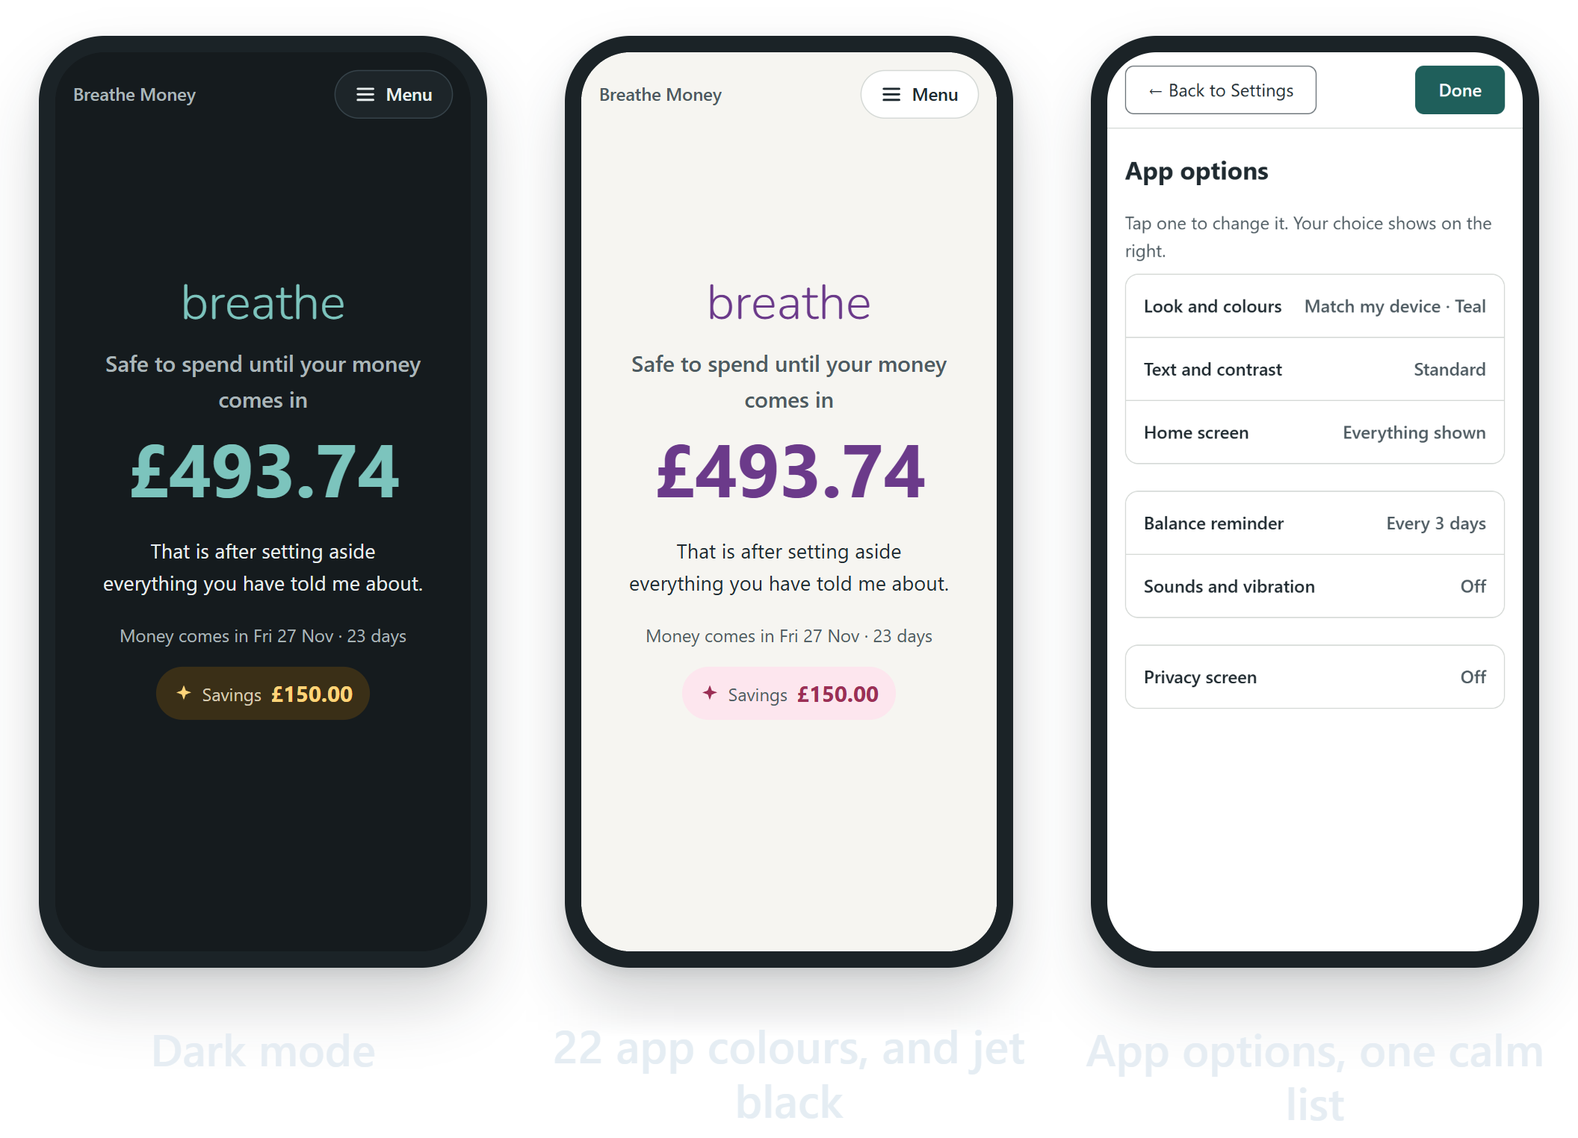
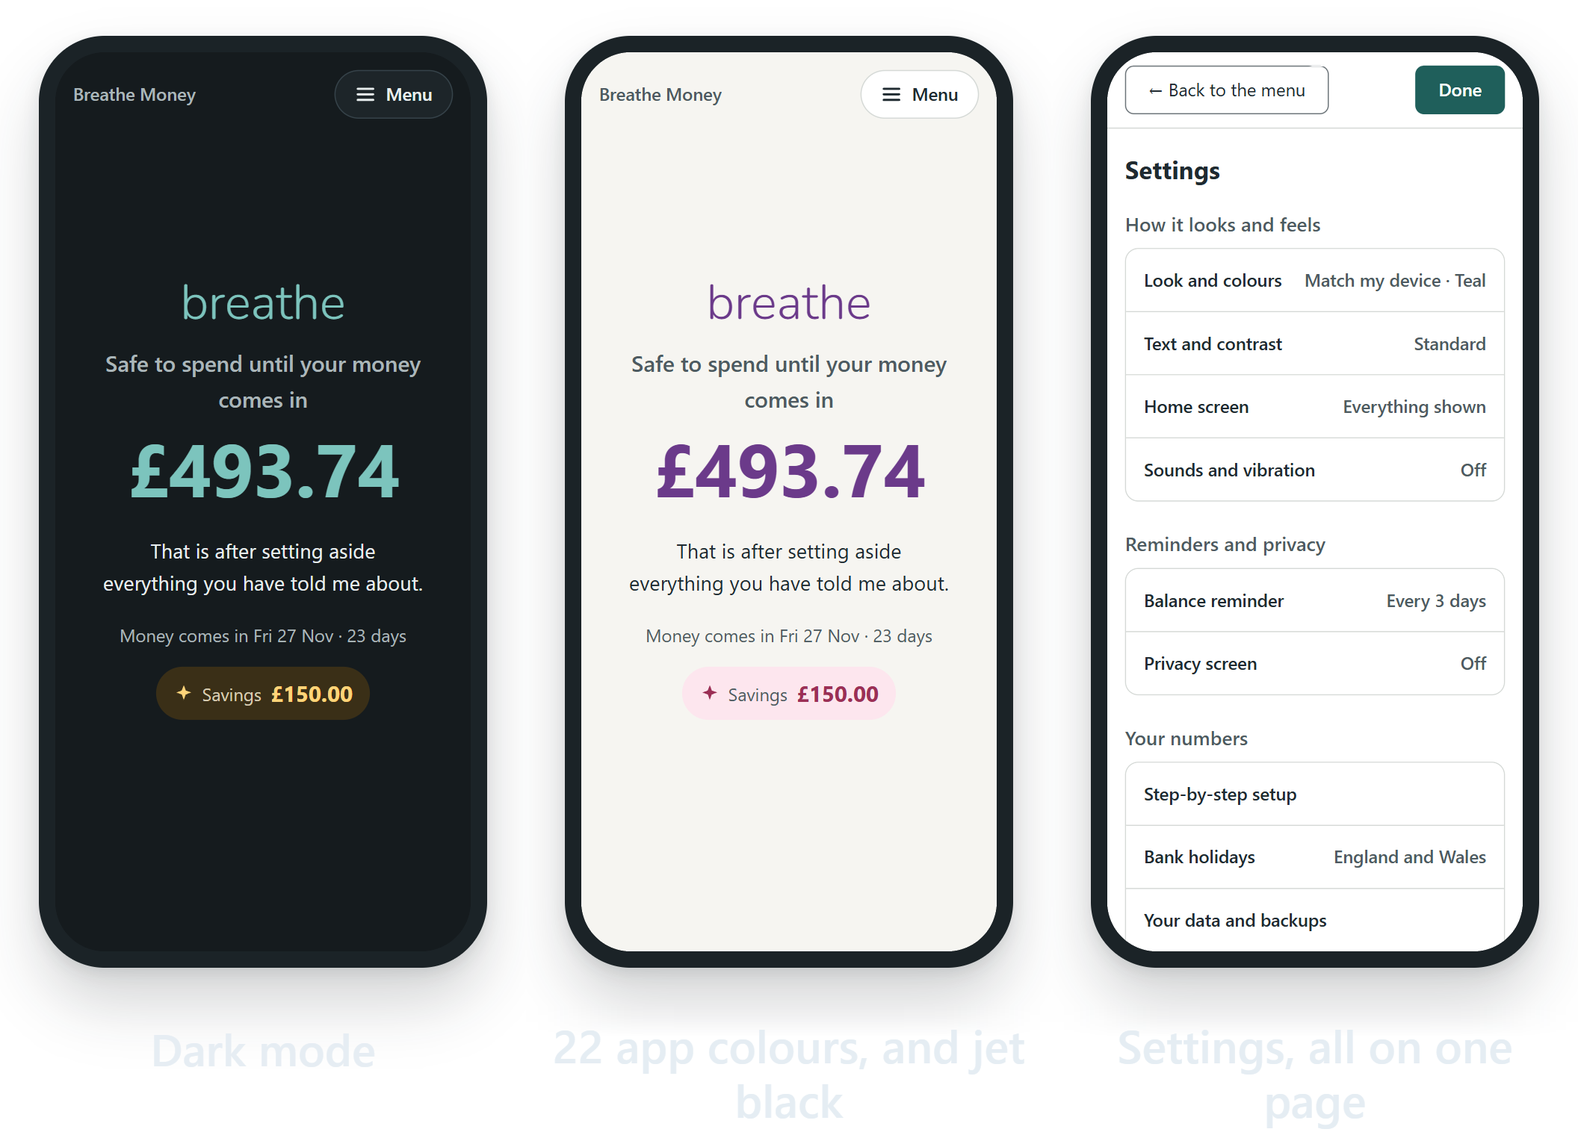
Simpler: one Settings page, shorter titles, calmer pages
- Settings is one page in three groups (no separate App options page);
  option pages go back to Settings.
- Your account is just the question and the box (typing means now).
- Bills title and hint shortened; Money coming in hint shortened; bill
  total without 'in total'.
- Plan until and the weekend question sit behind More options on the
  Money coming in page (setup unchanged).
- Savings: total, then Add / Take out; the note and Type a new total
  underneath; Undo only after a change.
README, ACCESSIBILITY, ANDROID-APP wording; Bills, Settings and clip
pictures retaken (caption: Settings, all on one page). Notes for v0.31.0.

diff --git a/apps/money/src/screens/MenuSheet.tsx b/apps/money/src/screens/MenuSheet.tsx
@@ -69,7 +69,8 @@ const TITLES: Record<PanelId, string> = {
 function parentOf(panel: PanelId): PanelId {
   if (panel === "setup" || panel === "settings" || panel === "data" || panel === "help" || panel === "holidays") return "more";
   if (panel === "share" || panel === "tip" || panel === "report" || panel === "about") return "help";
-  if (panel.startsWith("opt-")) return "settings";
+  // v0.31.0: the option pages open straight from Settings (no separate App options page).
+  if (panel.startsWith("opt-")) return "more";
   return "menu";
 }
 const BACK_LABEL: Partial<Record<PanelId, string>> = {
@@ -156,7 +157,6 @@ export function MenuSheet({ panel, onPanel, form, today, built, outcome, api, da
             {panel === "payday" || panel === "income" ? (
               <>
                 <IncomeSection form={form} today={today} api={api} />
-                <h3 className="sub-question">{ui.planUntilTitle}</h3>
                 <PlanUntilSection form={form} today={today} api={api} />
               </>
             ) : null}
@@ -176,7 +176,7 @@ export function MenuSheet({ panel, onPanel, form, today, built, outcome, api, da
               <SetupView form={form} today={today} built={built} api={api} onClose={() => onPanel(null)} />
             ) : null}
             {panel === "coming-up" ? <ComingUpView built={built} outcome={outcome} settings={settings} /> : null}
-            {panel === "more" ? <MoreList onPanel={onPanel} holidays={describeForm(form, today).holidays} /> : null}
+            {panel === "more" ? <MoreList onPanel={onPanel} holidays={describeForm(form, today).holidays} settings={settings} /> : null}
             {panel === "settings" ? <OptionsList settings={settings} onPanel={onPanel} /> : null}
             {groupOf(panel) !== null ? <SettingsView settings={settings} group={groupOf(panel)!} /> : null}
             {panel === "help" ? <HelpList onPanel={onPanel} /> : null}
@@ -278,37 +278,54 @@ function MenuList({ form, today, built, outcome, onPanel }: MenuListProps) {
 }
 
 /** The Settings folder: the less-used pages, kept together so the menu stays short. */
-function MoreList({ onPanel, holidays }: { onPanel: (panel: PanelId) => void; holidays: string }) {
+function MoreList({ onPanel, holidays, settings }: { onPanel: (panel: PanelId) => void; holidays: string; settings: SettingsApi }) {
+  const s = settings.settings;
+  const t = words.settings;
+  const m = words.menu;
+  const shown = [s.showExplanation, s.showPayday, s.showSavings].filter(Boolean).length;
+  const sound = s.clickSound === "off" ? null : t.sounds[s.clickSound];
+  const buzz = s.vibration === "off" ? null : t.vibrations[s.vibration];
+  const now: Record<OptionGroup, string> = {
+    look: `${t.options[s.appearance]} · ${t.accents[s.accent]}`,
+    text: t.textSizes[s.textSize],
+    home: shown === 3 ? m.homeAll : shown === 0 ? m.homeNone : m.homeSome,
+    reminder: t.reminderOptions[s.balanceReminder],
+    sounds: sound === null && buzz === null ? m.off : [sound, buzz].filter(Boolean).join(" · "),
+    privacy: settings.lock.isOn ? m.on : m.off,
+    updates: settings.updates.installed ?? "",
+  };
+  const option = (g: OptionGroup) => (
+    <li key={g}>
+      <button type="button" className="menu-item" onClick={() => onPanel(`opt-${g}` as PanelId)}>
+        <span className="menu-title">{m.optionGroups[g]}</span>
+        <span className="menu-sub">{now[g]}</span>
+      </button>
+    </li>
+  );
+  const page = (id: PanelId, title: string, sub?: string) => (
+    <li key={id}>
+      <button type="button" className="menu-item" onClick={() => onPanel(id)}>
+        <span className="menu-title">{title}</span>
+        {sub === undefined ? null : <span className="menu-sub">{sub}</span>}
+      </button>
+    </li>
+  );
+  // v0.31.0: everything on one page, in three small groups (no separate App options page).
   return (
     <>
+      <h3 className="settings-heading">{m.settingsGroups.feel}</h3>
+      <ul className="menu-list">{(["look", "text", "home", "sounds"] as const).map(option)}</ul>
+      <h3 className="settings-heading">{m.settingsGroups.reminders}</h3>
       <ul className="menu-list">
-        <li>
-          <button type="button" className="menu-item" onClick={() => onPanel("setup")}>
-            <span className="menu-title">{words.setup.menuItem}</span>
-          </button>
-        </li>
-        <li>
-          <button type="button" className="menu-item" onClick={() => onPanel("settings")}>
-            <span className="menu-title">{words.menu.names.settings}</span>
-          </button>
-        </li>
-        <li>
-          <button type="button" className="menu-item" onClick={() => onPanel("holidays")}>
-            <span className="menu-title">{words.menu.names.holidays}</span>
-            <span className="menu-sub">{holidays}</span>
-          </button>
-        </li>
-        <li>
-          <button type="button" className="menu-item" onClick={() => onPanel("data")}>
-            <span className="menu-title">{words.menu.names.data}</span>
-          </button>
-        </li>
-        <li>
-          <button type="button" className="menu-item" onClick={() => onPanel("help")}>
-            <span className="menu-title">{words.menu.helpTitle}</span>
-          </button>
-        </li>
+        {(["reminder", "privacy", "updates"] as const).filter((g) => g !== "updates" || settings.updates.available).map(option)}
       </ul>
+      <h3 className="settings-heading">{m.settingsGroups.numbers}</h3>
+      <ul className="menu-list">
+        {page("setup", words.setup.menuItem)}
+        {page("holidays", m.names.holidays, holidays)}
+        {page("data", m.names.data)}
+      </ul>
+      <ul className="menu-list">{page("help", m.helpTitle)}</ul>
     </>
   );
 }

diff --git a/apps/money/src/screens/FormSections.tsx b/apps/money/src/screens/FormSections.tsx
@@ -34,41 +34,17 @@ interface PlanUntilProps extends SectionProps {
   compactRule?: boolean;
 }
 
-export function AccountSection({ form, today, api }: SectionProps) {
-  // Most people type their balance straight after checking it, so the date only shows when it matters.
-  const fromAnotherDay = form.balanceDate !== "" && form.balanceDate !== today;
-  const [pickingDate, setPickingDate] = useState(false);
-  const showDate = fromAnotherDay || pickingDate;
+export function AccountSection({ form, api }: SectionProps) {
+  // Typing a balance always means "this is what's in my account now" (it takes today's date),
+  // so there's no date to ask about (v0.31.0).
   return (
-    <>
-      <MoneyField
-        label={ui.balanceLabel}
-        hint={ui.balanceHint}
-        value={form.balance}
-        onChange={(value) => api.set("balance", value)}
-        allowNegative
-      />
-      {showDate ? (
-        <div className="field">
-          <label htmlFor="balance-date">{ui.balanceDateLabel}</label>
-          <p className="hint">{ui.balanceDateHint}</p>
-          <input
-            id="balance-date"
-            type="date"
-            max={today}
-            value={form.balanceDate || today}
-            onChange={(event) => api.set("balanceDate", event.target.value)}
-          />
-        </div>
-      ) : (
-        <p className="hint">
-          {ui.balanceCheckedToday}{" "}
-          <button type="button" className="link" onClick={() => setPickingDate(true)}>
-            {ui.balanceOtherDay}
-          </button>
-        </p>
-      )}
-    </>
+    <MoneyField
+      label={ui.balanceLabel}
+      hint={ui.balanceHint}
+      value={form.balance}
+      onChange={(value) => api.set("balance", value)}
+      allowNegative
+    />
   );
 }
 
@@ -126,6 +102,7 @@ function RepeatField({
 export function PlanUntilSection({ form, today, api, compactRule = false }: PlanUntilProps) {
   const question = paydayRuleQuestion(form, today);
   const [changing, setChanging] = useState(false);
+  const [showMore, setShowMore] = useState(false);
   const needsDefault = compactRule && question !== null && form.paydayRule === "";
   useEffect(() => {
     if (needsDefault) api.set("paydayRule", "working-day-before");
@@ -176,6 +153,17 @@ export function PlanUntilSection({ form, today, api, compactRule = false }: Plan
   }
 
   if (choices.length === 0) return <p className="hint">{ui.planUntilNothingYet}</p>;
+  // The automatic choice is right for almost everyone, so the choices wait behind "More options".
+  if (!showMore) {
+    return (
+      <>
+        {stop !== null ? <p className="hint">{ui.planUntilLine(nameOf(stop))}</p> : null}
+        <button type="button" className="link" onClick={() => setShowMore(true)}>
+          {ui.moreOptions}
+        </button>
+      </>
+    );
+  }
   return (
     <>
       <div className="field">
@@ -198,6 +186,9 @@ export function PlanUntilSection({ form, today, api, compactRule = false }: Plan
         </select>
       </div>
       {rule}
+      <button type="button" className="link" onClick={() => setShowMore(false)}>
+        {ui.fewerOptions}
+      </button>
     </>
   );
 }
@@ -385,7 +376,6 @@ export function PotSection({ form, api }: SectionProps) {
 
   return (
     <>
-      <p className="hint">{s.intro}</p>
       <div className="savings-card">
         <span className="small">{s.keptAside}</span>
         <strong>{formatMoney(now)}</strong>
@@ -434,6 +424,7 @@ export function PotSection({ form, api }: SectionProps) {
               </>
             ) : null}
           </p>
+          <p className="hint">{s.intro}</p>
           <button type="button" className="link" onClick={() => setMode("type")}>
             {s.typeTotal}
           </button>

diff --git a/apps/money/src/content/words.ts b/apps/money/src/content/words.ts
@@ -60,10 +60,15 @@ export const words = {
     done: "Done",
     back: "Back to the menu",
     backToMore: "Back to Settings",
-    backToOptions: "Back to App options",
+    backToOptions: "Back to Settings",
     backToHelp: "Back to Help and sharing",
     helpTitle: "Help and sharing",
     optionsIntro: "Tap one to change it. Your choice shows on the right.",
+    settingsGroups: {
+      feel: "How it looks and feels",
+      reminders: "Reminders and privacy",
+      numbers: "Your numbers",
+    },
     optionGroups: {
       look: "Look and colours",
       text: "Text and contrast",
@@ -207,7 +212,7 @@ export const words = {
     waiting: "Once your balance and the date your money comes in are added, you'll see your bills and money days here.",
   },
   savings: {
-    intro: "Keep track of what you've saved. It's kept separate, so it never changes your number.",
+    intro: "Kept separate, so it never changes your number.",
     keptAside: "Saved",
     add: "+ Add",
     take: "− Take out",
@@ -221,7 +226,7 @@ export const words = {
     added: (amount: string) => `Added ${amount} to savings.`,
     tookOut: (amount: string) => `Took ${amount} out of savings.`,
     undo: "Undo",
-    typeTotal: "Or type a new total",
+    typeTotal: "Type a new total",
     backToButtons: "Back to Add and Take out",
     cantRead: "That amount can't be read yet. Try something like 20 or 12.50.",
     moreThanSaved: (saved: string) => `You have ${saved} saved, so you can take out up to that.`,
@@ -276,7 +281,7 @@ export const words = {
     billsNone: "No bills added yet.",
     incomeNone: "Nothing added yet.",
     totalBills: (count: number, total: string) =>
-      `${count === 1 ? "1 bill" : `${count} bills`} \u00b7 ${total} in total`,
+      `${count === 1 ? "1 bill" : `${count} bills`} \u00b7 ${total}`,
     // Just how many: adding one of each payment together (weekly and monthly) would be confusing.
     totalIncome: (count: number, _total: string) => (count === 1 ? "1 payment" : `${count} payments`),
     someUnreadable: "Some amounts still need a look, so they aren't in the total.",
@@ -597,9 +602,8 @@ export const words = {
       "next-working-day": "The next working day",
     },
 
-    billsTitle: "Bills before your money comes in",
-    billsHint:
-      "Add anything that will leave your account before your money comes in. Bills after that can wait.",
+    billsTitle: "Bills",
+    billsHint: "Anything that leaves your account before your money comes in.",
     billName: "What is it?",
     billAmount: "Amount (£)",
     billDue: "Due on",
@@ -607,7 +611,10 @@ export const words = {
     remove: "Remove",
 
     incomeTitle: "Money coming in",
-    incomeHint: "All the money you have coming in: wages, benefits, a pension, a refund. Your number plans until your biggest regular one.",
+    incomeHint: "Wages, benefits, anything that comes in.",
+    planUntilLine: (name: string) => `Your number plans until your biggest regular money${name === "" ? "" : `, ${name}`}.`,
+    moreOptions: "More options",
+    fewerOptions: "Fewer options",
     planUntilTitle: "Plan until",
     planUntilLabel: "Your number plans until",
     planUntilHint: "Usually your biggest regular money. Pick a different one if you plan around another.",

diff --git a/apps/money/tests/rows.test.ts b/apps/money/tests/rows.test.ts
@@ -62,8 +62,8 @@ describe("totals and order", () => {
       { ...newBillRow(), amount: "100" },
       { ...newBillRow(), amount: "240" },
     ];
-    expect(billsTotalLine(rows)).toBe("2 bills · £340.00 in total");
-    expect(billsTotalLine([rows[0]!])).toBe("1 bill · £100.00 in total");
+    expect(billsTotalLine(rows)).toBe("2 bills · £340.00");
+    expect(billsTotalLine([rows[0]!])).toBe("1 bill · £100.00");
   });
 
   it("puts the earliest date first, undated rows last, and keeps typed order for ties", () => {

diff --git a/apps/money/src/styles.css b/apps/money/src/styles.css
@@ -1764,3 +1764,14 @@ a.button-link {
 .month-num.month-today {
   outline: none;
 }
+
+/* Settings on one page (v0.31.0): small headings above each group. */
+.settings-heading {
+  font-size: 0.9rem;
+  font-weight: 600;
+  color: var(--muted);
+  margin: 1rem 0 0.4rem;
+}
+.settings-heading:first-of-type {
+  margin-top: 0.25rem;
+}

diff --git a/README.md b/README.md
@@ -52,7 +52,7 @@ It is a personal project, built by someone who struggles with these things too. 
 ## Breathe Money in 15 seconds
 
 <p align="center">
-  <picture><source media="(prefers-color-scheme: dark)" srcset="docs/images/demo-clip-dark.gif"><img width="80%" src="docs/images/demo-clip.gif" alt="A short clip: the home screen shows £493.74. The Menu opens, the account balance is changed to £1,450.00, and the number at the bottom updates while typing. Back on the home screen it now says £659.14, then the app switches to dark mode. Beside it: One question, one calm answer. "How much can I spend until my money comes in?" Type what's in your account. Your bills, food and travel are set aside. What's left is one big number."></picture>
+  <picture><source media="(prefers-color-scheme: dark)" srcset="docs/images/demo-clip-v2-dark.gif"><img width="80%" src="docs/images/demo-clip-v2.gif" alt="A short clip: the home screen shows £493.74. The Menu opens, the account balance is changed to £1,450.00, and the number at the bottom updates while typing. Back on the home screen it now says £659.14, then the app switches to dark mode. Beside it: One question, one calm answer. "How much can I spend until my money comes in?" Type what's in your account. Your bills, food and travel are set aside. What's left is one big number."></picture>
 </p>
 
 <p align="center"><a href="https://papareaps.github.io/Breathe/"><b>Try it now →</b></a> No account, no download.</p>
@@ -112,11 +112,11 @@ It is a personal project, built by someone who struggles with these things too. 
 <p align="center">
   <picture>
     <source media="(prefers-color-scheme: dark)" srcset="docs/images/row-yours-v2-dark.png">
-    <img src="docs/images/row-yours-v2.png" alt="Three screens: the home screen in dark mode; the home screen with a plum number and a rose savings badge (22 app colours, and jet black); and App options as a short, calm list" width="100%">
+    <img src="docs/images/row-yours-v2.png" alt="Three screens: the home screen in dark mode; the home screen with a plum number and a rose savings badge (22 app colours, and jet black); and Settings, all on one page" width="100%">
   </picture>
 </p>
 
-- **App options is a short, calm list**: Look and colours, Text and contrast, Home screen, Balance reminder, Sounds and vibration, Privacy screen and Updates. Each opens its own small page.
+- **Settings is one calm page**: Look and colours, Text and contrast, Home screen, Sounds and vibration, Balance reminder, Privacy screen and Updates, plus your setup, bank holidays and backups. Each opens its own small page.
 - **Light, dark or jet black**, or follow your device.
 - Pick from **22 app colours** (soft or deep) and a **savings colour**, each from a simple list, because what feels calm is different for everyone. You can even choose the colour of the **box outlines**.
 - **Sounds and vibration when you tap**, if you'd like them: twelve soft sounds and three strengths of buzz, each with a button to try it first. All off until you choose.
@@ -131,7 +131,7 @@ It is a personal project, built by someone who struggles with these things too. 
   </picture>
 </p>
 
-<p align="center">Like it simpler? Switch off the extras in <b>Menu → Settings → App options → Home screen</b>.</p>
+<p align="center">Like it simpler? Switch off the extras in <b>Menu → Settings → Home screen</b>.</p>
 
 ### Share it, tell us, keep it up to date
 
@@ -147,7 +147,7 @@ It is a personal project, built by someone who struggles with these things too. 
 - **Report a problem**: opens a GitHub page to tell us what happened, or share an idea. Nothing is sent from the app itself.
 - **Updates in the Android app**: the first time, the app asks once whether to check for new versions. Say yes, and a clear **Update ready** button shows under your number whenever there is one. Or tap **Check now** yourself, then **Download and install**. The app only downloads Breathe Money's own releases, and Android checks every update is really from us.
 
-Share, Leave a tip and Report a problem are in **Menu → Settings → Help and sharing**. Updates are in **Menu → Settings → App options → Updates**.
+Share, Leave a tip and Report a problem are in **Menu → Settings → Help and sharing**. Updates are in **Menu → Settings → Updates**.
 
 ### Easy to read, private by design
 

diff --git a/docs/ANDROID-APP.md b/docs/ANDROID-APP.md
@@ -18,7 +18,7 @@ iPhones can't install an app from a file. On an iPhone, open the web link and us
 2. Android asks whether your browser may "install unknown apps". That's Android's standard check for anything that doesn't come from the Play Store. Allow it for this one install (you can switch it off again afterwards).
 3. Tap **Install**, then **Open**.
 
-**Updating:** in the app, go to **Menu → Settings → App options → Updates**. Tap **Check now**, or switch on **Check once a day when I open the app**. When a new version is out, the app says so (in Settings, and as a small note on the home screen). In **Menu → Settings → App options → Updates**, tap **Download and install**. The first time, Android asks you to allow Breathe Money to install apps ("Allow from this source"): switch it on, come back and tap **Install now**. Android then asks "Do you want to update this app?": tap **Update**. Your numbers stay. There's also a link to get it from GitHub by hand.
+**Updating:** in the app, go to **Menu → Settings → Updates**. Tap **Check now**, or switch on **Check once a day when I open the app**. When a new version is out, the app says so (in Settings, and as a small note on the home screen). In **Menu → Settings → App options → Updates**, tap **Download and install**. The first time, Android asks you to allow Breathe Money to install apps ("Allow from this source"): switch it on, come back and tap **Install now**. Android then asks "Do you want to update this app?": tap **Update**. Your numbers stay. There's also a link to get it from GitHub by hand.
 
 How it's kept safe: the app only downloads from Breathe Money's own GitHub releases (any other address is refused), checks the file really is Breathe Money, and Android refuses any update not signed with the same key as the installed app. The `REQUEST_INSTALL_PACKAGES` permission is used for this alone. If the app ever goes on the Play Store, this would be removed, since Play does updates itself.
 

diff --git a/docs/releases/v0.31.0.md b/docs/releases/v0.31.0.md
@@ -1,0 +1,17 @@
+**Simpler, with less to read.**
+
+## What's new
+
+- **Settings is now one page.** Look and colours, Text and contrast, Home screen, Sounds, Balance reminder, Privacy screen and Updates are all on it, in three small groups, with your setup, bank holidays and backups underneath. Colours are now 2 taps away instead of 3.
+- **Your account is just the question and the box.** Typing your balance always means "this is what's in my account now".
+- **Shorter titles:** "Bills before your money comes in" is now just **Bills**, with a one-line hint. Money coming in is shorter too.
+- **Plan until is tucked away.** Money coming in shows your payments and one line saying which one your number plans until. Tap **More options** to change it.
+- **A calmer Savings page:** your total, then **+ Add** and **− Take out**. Undo only appears right after a change.
+
+## Updating to this version
+
+- **Android (from v0.14.0):** go to **Menu → Settings → App options → Updates** (from this version: **Menu → Settings → Updates**), tap **Check now**, then **Download and install**. Your numbers stay.
+- **Android (older versions, or a first install):** on your phone, tap [this download link](https://github.com/PapaReaps/Breathe/releases/latest/download/breathe-money.apk), then open it. [How to install it](https://github.com/PapaReaps/Breathe/blob/main/docs/ANDROID-APP.md).
+- **Web link and computer app:** [papareaps.github.io/Breathe](https://papareaps.github.io/Breathe/) updates by itself.
+
+Breathe Money is an organisation tool, not financial advice.

diff --git a/ACCESSIBILITY.md b/ACCESSIBILITY.md
@@ -14,7 +14,7 @@ Breathe Money is made for people who find everyday organisation hard, including 
 **Less to take in**
 - **One question at a time** in the step-by-step setup, and every question can be skipped.
 - **A quiet home screen**: you can hide everything except your number.
-- **Short pages**: App options is a list, and each part opens on its own.
+- **Short pages**: Settings is one list, and each part opens on its own.
 - **Movement is switched off** for people who ask for reduced motion.
 
 **Works with**
